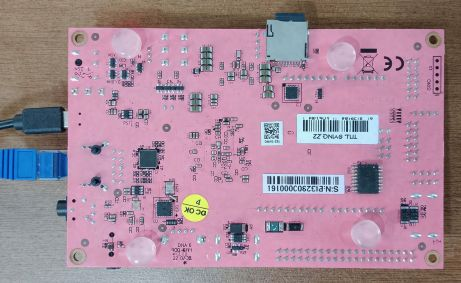
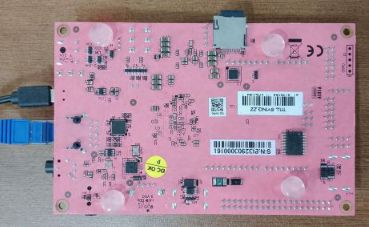
updated images

diff --git a/README.md b/README.md
@@ -18,7 +18,7 @@ The workshop mainly focuses on:
 
 The main hardware used in this workshop is the **PYNQ-Z2 FPGA development board**.  
 
-![](pics/front.jpg) ![](pics/back.jpg)  
+![](pics/front1.jpg) ![](pics/back1.jpg)  
 Basic hardware parts used in the experiments:
 
 * PYNQ-Z2 board
